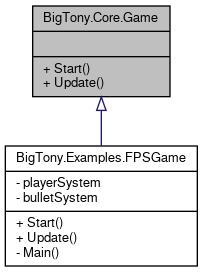
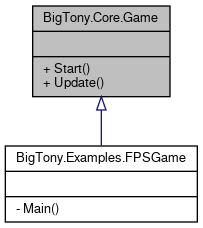
deploy: c9b67a0003e1fa23f847a2552882804407471c06

Changed region(s): [[0.0, 0.5219, 0.9754, 0.9825], [0.1478, 0.1842, 0.8571, 0.4912], [0.1478, 0.0, 0.8571, 0.1535]]

diff --git a/classBigTony_1_1Examples_1_1FPSGame.html b/classBigTony_1_1Examples_1_1FPSGame.html
@@ -75,9 +75,7 @@ $(function() {
 </div><!-- top -->
 <div class="header">
   <div class="summary">
-<a href="#pub-methods">Public Member Functions</a> &#124;
 <a href="#pri-static-methods">Static Private Member Functions</a> &#124;
-<a href="#pri-attribs">Private Attributes</a> &#124;
 <a href="classBigTony_1_1Examples_1_1FPSGame-members.html">List of all members</a>  </div>
   <div class="headertitle">
 <div class="title">BigTony.Examples.FPSGame Class Reference</div>  </div>
@@ -88,7 +86,7 @@ Inheritance diagram for BigTony.Examples.FPSGame:</div>
 <div class="dyncontent">
 <div class="center"><img src="classBigTony_1_1Examples_1_1FPSGame__inherit__graph.png" border="0" usemap="#aBigTony_8Examples_8FPSGame_inherit__map" alt="Inheritance graph"/></div>
 <map name="aBigTony_8Examples_8FPSGame_inherit__map" id="aBigTony_8Examples_8FPSGame_inherit__map">
-<area shape="rect" title=" " alt="" coords="5,145,197,267"/>
+<area shape="rect" title=" " alt="" coords="5,145,197,223"/>
 <area shape="rect" href="classBigTony_1_1Core_1_1Game.html" title=" " alt="" coords="60,5,143,97"/>
 </map>
 </div>
@@ -97,38 +95,26 @@ Collaboration diagram for BigTony.Examples.FPSGame:</div>
 <div class="dyncontent">
 <div class="center"><img src="classBigTony_1_1Examples_1_1FPSGame__coll__graph.png" border="0" usemap="#aBigTony_8Examples_8FPSGame_coll__map" alt="Collaboration graph"/></div>
 <map name="aBigTony_8Examples_8FPSGame_coll__map" id="aBigTony_8Examples_8FPSGame_coll__map">
-<area shape="rect" title=" " alt="" coords="120,287,312,393"/>
-<area shape="rect" href="classBigTony_1_1Core_1_1Game.html" title=" " alt="" coords="5,132,88,224"/>
-<area shape="rect" href="classBigTony_1_1Examples_1_1BulletSystem.html" title=" " alt="" coords="112,139,320,217"/>
-<area shape="rect" title=" " alt="" coords="141,5,291,83"/>
-<area shape="rect" href="classBigTony_1_1Examples_1_1PlayerSystem.html" title=" " alt="" coords="344,139,555,217"/>
-<area shape="rect" title=" " alt="" coords="372,5,527,83"/>
+<area shape="rect" title=" " alt="" coords="5,145,197,223"/>
+<area shape="rect" href="classBigTony_1_1Core_1_1Game.html" title=" " alt="" coords="60,5,143,97"/>
 </map>
 </div>
 <table class="memberdecls">
-<tr class="heading"><td colspan="2"><h2 class="groupheader"><a name="pub-methods"></a>
-Public Member Functions</h2></td></tr>
-<tr class="memitem:a3d732e6affa6e1ac60195c80e65d8a29"><td class="memItemLeft" align="right" valign="top"><a id="a3d732e6affa6e1ac60195c80e65d8a29"></a>
-override void&#160;</td><td class="memItemRight" valign="bottom"><b>Start</b> ()</td></tr>
-<tr class="separator:a3d732e6affa6e1ac60195c80e65d8a29"><td class="memSeparator" colspan="2">&#160;</td></tr>
-<tr class="memitem:a1a8cccca62f39cefada21db56a352538"><td class="memItemLeft" align="right" valign="top"><a id="a1a8cccca62f39cefada21db56a352538"></a>
-override void&#160;</td><td class="memItemRight" valign="bottom"><b>Update</b> ()</td></tr>
-<tr class="separator:a1a8cccca62f39cefada21db56a352538"><td class="memSeparator" colspan="2">&#160;</td></tr>
-</table><table class="memberdecls">
 <tr class="heading"><td colspan="2"><h2 class="groupheader"><a name="pri-static-methods"></a>
 Static Private Member Functions</h2></td></tr>
 <tr class="memitem:aef2254ee00f7e77fa749e154ff480c08"><td class="memItemLeft" align="right" valign="top"><a id="aef2254ee00f7e77fa749e154ff480c08"></a>
 static void&#160;</td><td class="memItemRight" valign="bottom"><b>Main</b> (string[] args)</td></tr>
 <tr class="separator:aef2254ee00f7e77fa749e154ff480c08"><td class="memSeparator" colspan="2">&#160;</td></tr>
 </table><table class="memberdecls">
-<tr class="heading"><td colspan="2"><h2 class="groupheader"><a name="pri-attribs"></a>
-Private Attributes</h2></td></tr>
-<tr class="memitem:a3b1261048acfdfe048ae2fec452753c0"><td class="memItemLeft" align="right" valign="top"><a id="a3b1261048acfdfe048ae2fec452753c0"></a>
-<a class="el" href="classBigTony_1_1Examples_1_1PlayerSystem.html">PlayerSystem</a>&#160;</td><td class="memItemRight" valign="bottom"><b>playerSystem</b> = new <a class="el" href="classBigTony_1_1Examples_1_1PlayerSystem.html">PlayerSystem</a>()</td></tr>
-<tr class="separator:a3b1261048acfdfe048ae2fec452753c0"><td class="memSeparator" colspan="2">&#160;</td></tr>
-<tr class="memitem:aadc6c473a808bc679a2cfbbbbbf589b7"><td class="memItemLeft" align="right" valign="top"><a id="aadc6c473a808bc679a2cfbbbbbf589b7"></a>
-<a class="el" href="classBigTony_1_1Examples_1_1BulletSystem.html">BulletSystem</a>&#160;</td><td class="memItemRight" valign="bottom"><b>bulletSystem</b> = new <a class="el" href="classBigTony_1_1Examples_1_1BulletSystem.html">BulletSystem</a>()</td></tr>
-<tr class="separator:aadc6c473a808bc679a2cfbbbbbf589b7"><td class="memSeparator" colspan="2">&#160;</td></tr>
+<tr class="heading"><td colspan="2"><h2 class="groupheader"><a name="inherited"></a>
+Additional Inherited Members</h2></td></tr>
+<tr class="inherit_header pub_methods_classBigTony_1_1Core_1_1Game"><td colspan="2" onclick="javascript:toggleInherit('pub_methods_classBigTony_1_1Core_1_1Game')"><img src="closed.png" alt="-"/>&#160;Public Member Functions inherited from <a class="el" href="classBigTony_1_1Core_1_1Game.html">BigTony.Core.Game</a></td></tr>
+<tr class="memitem:ab09ac259ed4e3c522342cfb7be63517e inherit pub_methods_classBigTony_1_1Core_1_1Game"><td class="memItemLeft" align="right" valign="top"><a id="ab09ac259ed4e3c522342cfb7be63517e"></a>
+virtual void&#160;</td><td class="memItemRight" valign="bottom"><b>Start</b> ()</td></tr>
+<tr class="separator:ab09ac259ed4e3c522342cfb7be63517e inherit pub_methods_classBigTony_1_1Core_1_1Game"><td class="memSeparator" colspan="2">&#160;</td></tr>
+<tr class="memitem:ad82b3bdc936e89477dfcf22e6b673f78 inherit pub_methods_classBigTony_1_1Core_1_1Game"><td class="memItemLeft" align="right" valign="top"><a id="ad82b3bdc936e89477dfcf22e6b673f78"></a>
+virtual void&#160;</td><td class="memItemRight" valign="bottom"><b>Update</b> ()</td></tr>
+<tr class="separator:ad82b3bdc936e89477dfcf22e6b673f78 inherit pub_methods_classBigTony_1_1Core_1_1Game"><td class="memSeparator" colspan="2">&#160;</td></tr>
 </table>
 <hr/>The documentation for this class was generated from the following file:<ul>
 <li>src/Example/FPSGame.cs</li>

diff --git a/classBigTony_1_1Examples_1_1FPSGame-members.html b/classBigTony_1_1Examples_1_1FPSGame-members.html
@@ -81,11 +81,9 @@ $(function() {
 
 <p>This is the complete list of members for <a class="el" href="classBigTony_1_1Examples_1_1FPSGame.html">BigTony.Examples.FPSGame</a>, including all inherited members.</p>
 <table class="directory">
-  <tr bgcolor="#f0f0f0" class="even"><td class="entry"><b>bulletSystem</b> (defined in <a class="el" href="classBigTony_1_1Examples_1_1FPSGame.html">BigTony.Examples.FPSGame</a>)</td><td class="entry"><a class="el" href="classBigTony_1_1Examples_1_1FPSGame.html">BigTony.Examples.FPSGame</a></td><td class="entry"><span class="mlabel">private</span></td></tr>
-  <tr bgcolor="#f0f0f0"><td class="entry"><b>Main</b>(string[] args) (defined in <a class="el" href="classBigTony_1_1Examples_1_1FPSGame.html">BigTony.Examples.FPSGame</a>)</td><td class="entry"><a class="el" href="classBigTony_1_1Examples_1_1FPSGame.html">BigTony.Examples.FPSGame</a></td><td class="entry"><span class="mlabel">inline</span><span class="mlabel">private</span><span class="mlabel">static</span></td></tr>
-  <tr bgcolor="#f0f0f0" class="even"><td class="entry"><b>playerSystem</b> (defined in <a class="el" href="classBigTony_1_1Examples_1_1FPSGame.html">BigTony.Examples.FPSGame</a>)</td><td class="entry"><a class="el" href="classBigTony_1_1Examples_1_1FPSGame.html">BigTony.Examples.FPSGame</a></td><td class="entry"><span class="mlabel">private</span></td></tr>
-  <tr bgcolor="#f0f0f0"><td class="entry"><b>Start</b>() (defined in <a class="el" href="classBigTony_1_1Examples_1_1FPSGame.html">BigTony.Examples.FPSGame</a>)</td><td class="entry"><a class="el" href="classBigTony_1_1Examples_1_1FPSGame.html">BigTony.Examples.FPSGame</a></td><td class="entry"><span class="mlabel">inline</span><span class="mlabel">virtual</span></td></tr>
-  <tr bgcolor="#f0f0f0" class="even"><td class="entry"><b>Update</b>() (defined in <a class="el" href="classBigTony_1_1Examples_1_1FPSGame.html">BigTony.Examples.FPSGame</a>)</td><td class="entry"><a class="el" href="classBigTony_1_1Examples_1_1FPSGame.html">BigTony.Examples.FPSGame</a></td><td class="entry"><span class="mlabel">inline</span><span class="mlabel">virtual</span></td></tr>
+  <tr bgcolor="#f0f0f0" class="even"><td class="entry"><b>Main</b>(string[] args) (defined in <a class="el" href="classBigTony_1_1Examples_1_1FPSGame.html">BigTony.Examples.FPSGame</a>)</td><td class="entry"><a class="el" href="classBigTony_1_1Examples_1_1FPSGame.html">BigTony.Examples.FPSGame</a></td><td class="entry"><span class="mlabel">inline</span><span class="mlabel">private</span><span class="mlabel">static</span></td></tr>
+  <tr bgcolor="#f0f0f0"><td class="entry"><b>Start</b>() (defined in <a class="el" href="classBigTony_1_1Core_1_1Game.html">BigTony.Core.Game</a>)</td><td class="entry"><a class="el" href="classBigTony_1_1Core_1_1Game.html">BigTony.Core.Game</a></td><td class="entry"><span class="mlabel">inline</span><span class="mlabel">virtual</span></td></tr>
+  <tr bgcolor="#f0f0f0" class="even"><td class="entry"><b>Update</b>() (defined in <a class="el" href="classBigTony_1_1Core_1_1Game.html">BigTony.Core.Game</a>)</td><td class="entry"><a class="el" href="classBigTony_1_1Core_1_1Game.html">BigTony.Core.Game</a></td><td class="entry"><span class="mlabel">inline</span><span class="mlabel">virtual</span></td></tr>
 </table></div><!-- contents -->
 <!-- start footer part -->
 <hr class="footer"/><address class="footer"><small>

diff --git a/annotated.html b/annotated.html
@@ -80,8 +80,8 @@ $(function() {
 <tr id="row_0_0_"><td class="entry"><span style="width:16px;display:inline-block;">&#160;</span><span id="arr_0_0_" class="arrow" onclick="toggleFolder('0_0_')">&#9660;</span><span class="icona"><span class="icon">N</span></span><a class="el" href="namespaceBigTony_1_1Core.html" target="_self">Core</a></td><td class="desc"></td></tr>
 <tr id="row_0_0_0_" class="even"><td class="entry"><span style="width:48px;display:inline-block;">&#160;</span><span class="icona"><span class="icon">C</span></span><a class="el" href="namespaceBigTony_1_1Core.html#classBigTony_1_1Core_1_1Program" target="_self">Program</a></td><td class="desc"></td></tr>
 <tr id="row_0_0_1_"><td class="entry"><span style="width:48px;display:inline-block;">&#160;</span><span class="icona"><span class="icon">C</span></span><a class="el" href="classBigTony_1_1Core_1_1Entity.html" target="_self">Entity</a></td><td class="desc"></td></tr>
-<tr id="row_0_0_2_" class="even"><td class="entry"><span style="width:48px;display:inline-block;">&#160;</span><span class="icona"><span class="icon">C</span></span><a class="el" href="classBigTony_1_1Core_1_1BaseSystem.html" target="_self">BaseSystem</a></td><td class="desc"></td></tr>
-<tr id="row_0_0_3_"><td class="entry"><span style="width:48px;display:inline-block;">&#160;</span><span class="icona"><span class="icon">C</span></span><a class="el" href="classBigTony_1_1Core_1_1Game.html" target="_self">Game</a></td><td class="desc"></td></tr>
+<tr id="row_0_0_2_" class="even"><td class="entry"><span style="width:48px;display:inline-block;">&#160;</span><span class="icona"><span class="icon">C</span></span><a class="el" href="classBigTony_1_1Core_1_1Game.html" target="_self">Game</a></td><td class="desc"></td></tr>
+<tr id="row_0_0_3_"><td class="entry"><span style="width:48px;display:inline-block;">&#160;</span><span class="icona"><span class="icon">C</span></span><a class="el" href="classBigTony_1_1Core_1_1BaseSystem.html" target="_self">BaseSystem</a></td><td class="desc"></td></tr>
 <tr id="row_0_1_" class="even"><td class="entry"><span style="width:16px;display:inline-block;">&#160;</span><span id="arr_0_1_" class="arrow" onclick="toggleFolder('0_1_')">&#9660;</span><span class="icona"><span class="icon">N</span></span><a class="el" href="namespaceBigTony_1_1Examples.html" target="_self">Examples</a></td><td class="desc"></td></tr>
 <tr id="row_0_1_0_"><td class="entry"><span style="width:48px;display:inline-block;">&#160;</span><span class="icona"><span class="icon">C</span></span><a class="el" href="classBigTony_1_1Examples_1_1Bullet.html" target="_self">Bullet</a></td><td class="desc"></td></tr>
 <tr id="row_0_1_1_" class="even"><td class="entry"><span style="width:48px;display:inline-block;">&#160;</span><span class="icona"><span class="icon">C</span></span><a class="el" href="classBigTony_1_1Examples_1_1BulletSystem.html" target="_self">BulletSystem</a></td><td class="desc"></td></tr>

diff --git a/namespaces.html b/namespaces.html
@@ -80,8 +80,8 @@ $(function() {
 <tr id="row_0_0_"><td class="entry"><span style="width:16px;display:inline-block;">&#160;</span><span id="arr_0_0_" class="arrow" onclick="toggleFolder('0_0_')">&#9660;</span><span class="icona"><span class="icon">N</span></span><a class="el" href="namespaceBigTony_1_1Core.html" target="_self">Core</a></td><td class="desc"></td></tr>
 <tr id="row_0_0_0_" class="even"><td class="entry"><span style="width:48px;display:inline-block;">&#160;</span><span class="icona"><span class="icon">C</span></span><a class="el" href="namespaceBigTony_1_1Core.html#classBigTony_1_1Core_1_1Program" target="_self">Program</a></td><td class="desc"></td></tr>
 <tr id="row_0_0_1_"><td class="entry"><span style="width:48px;display:inline-block;">&#160;</span><span class="icona"><span class="icon">C</span></span><a class="el" href="classBigTony_1_1Core_1_1Entity.html" target="_self">Entity</a></td><td class="desc"></td></tr>
-<tr id="row_0_0_2_" class="even"><td class="entry"><span style="width:48px;display:inline-block;">&#160;</span><span class="icona"><span class="icon">C</span></span><a class="el" href="classBigTony_1_1Core_1_1BaseSystem.html" target="_self">BaseSystem</a></td><td class="desc"></td></tr>
-<tr id="row_0_0_3_"><td class="entry"><span style="width:48px;display:inline-block;">&#160;</span><span class="icona"><span class="icon">C</span></span><a class="el" href="classBigTony_1_1Core_1_1Game.html" target="_self">Game</a></td><td class="desc"></td></tr>
+<tr id="row_0_0_2_" class="even"><td class="entry"><span style="width:48px;display:inline-block;">&#160;</span><span class="icona"><span class="icon">C</span></span><a class="el" href="classBigTony_1_1Core_1_1Game.html" target="_self">Game</a></td><td class="desc"></td></tr>
+<tr id="row_0_0_3_"><td class="entry"><span style="width:48px;display:inline-block;">&#160;</span><span class="icona"><span class="icon">C</span></span><a class="el" href="classBigTony_1_1Core_1_1BaseSystem.html" target="_self">BaseSystem</a></td><td class="desc"></td></tr>
 <tr id="row_0_1_" class="even"><td class="entry"><span style="width:16px;display:inline-block;">&#160;</span><span id="arr_0_1_" class="arrow" onclick="toggleFolder('0_1_')">&#9660;</span><span class="icona"><span class="icon">N</span></span><a class="el" href="namespaceBigTony_1_1Examples.html" target="_self">Examples</a></td><td class="desc"></td></tr>
 <tr id="row_0_1_0_"><td class="entry"><span style="width:48px;display:inline-block;">&#160;</span><span class="icona"><span class="icon">C</span></span><a class="el" href="classBigTony_1_1Examples_1_1Bullet.html" target="_self">Bullet</a></td><td class="desc"></td></tr>
 <tr id="row_0_1_1_" class="even"><td class="entry"><span style="width:48px;display:inline-block;">&#160;</span><span class="icona"><span class="icon">C</span></span><a class="el" href="classBigTony_1_1Examples_1_1BulletSystem.html" target="_self">BulletSystem</a></td><td class="desc"></td></tr>

diff --git a/namespaceBigTony_1_1Core.html b/namespaceBigTony_1_1Core.html
@@ -89,9 +89,11 @@ Classes</h2></td></tr>
 <tr class="separator:"><td class="memSeparator" colspan="2">&#160;</td></tr>
 <tr class="memitem:"><td class="memItemLeft" align="right" valign="top">class &#160;</td><td class="memItemRight" valign="bottom"><a class="el" href="classBigTony_1_1Core_1_1Entity.html">Entity</a></td></tr>
 <tr class="separator:"><td class="memSeparator" colspan="2">&#160;</td></tr>
+<tr class="memitem:"><td class="memItemLeft" align="right" valign="top">class &#160;</td><td class="memItemRight" valign="bottom"><a class="el" href="classBigTony_1_1Core_1_1Game.html">Game</a></td></tr>
+<tr class="separator:"><td class="memSeparator" colspan="2">&#160;</td></tr>
 <tr class="memitem:"><td class="memItemLeft" align="right" valign="top">class &#160;</td><td class="memItemRight" valign="bottom"><a class="el" href="classBigTony_1_1Core_1_1BaseSystem.html">BaseSystem</a></td></tr>
 <tr class="separator:"><td class="memSeparator" colspan="2">&#160;</td></tr>
-<tr class="memitem:"><td class="memItemLeft" align="right" valign="top">class &#160;</td><td class="memItemRight" valign="bottom"><a class="el" href="classBigTony_1_1Core_1_1Game.html">Game</a></td></tr>
+<tr class="memitem:"><td class="memItemLeft" align="right" valign="top">class &#160;</td><td class="memItemRight" valign="bottom"><b>SystemManager</b></td></tr>
 <tr class="separator:"><td class="memSeparator" colspan="2">&#160;</td></tr>
 <tr class="memitem:"><td class="memItemLeft" align="right" valign="top">class &#160;</td><td class="memItemRight" valign="bottom"><b>Time</b></td></tr>
 <tr class="separator:"><td class="memSeparator" colspan="2">&#160;</td></tr>

diff --git a/classBigTony_1_1Core_1_1Game.html b/classBigTony_1_1Core_1_1Game.html
@@ -87,7 +87,7 @@ Inheritance diagram for BigTony.Core.Game:</div>
 <div class="center"><img src="classBigTony_1_1Core_1_1Game__inherit__graph.png" border="0" usemap="#aBigTony_8Core_8Game_inherit__map" alt="Inheritance graph"/></div>
 <map name="aBigTony_8Core_8Game_inherit__map" id="aBigTony_8Core_8Game_inherit__map">
 <area shape="rect" title=" " alt="" coords="33,5,170,97"/>
-<area shape="rect" href="classBigTony_1_1Examples_1_1FPSGame.html" title=" " alt="" coords="5,145,197,267"/>
+<area shape="rect" href="classBigTony_1_1Examples_1_1FPSGame.html" title=" " alt="" coords="5,145,197,223"/>
 </map>
 </div>
 <div class="dynheader">
@@ -109,7 +109,7 @@ virtual void&#160;</td><td class="memItemRight" valign="bottom"><b>Update</b> ()
 <tr class="separator:ad82b3bdc936e89477dfcf22e6b673f78"><td class="memSeparator" colspan="2">&#160;</td></tr>
 </table>
 <hr/>The documentation for this class was generated from the following file:<ul>
-<li>src/System/Core/SystemManager.cs</li>
+<li>src/System/Core/Game.cs</li>
 </ul>
 </div><!-- contents -->
 <!-- start footer part -->
